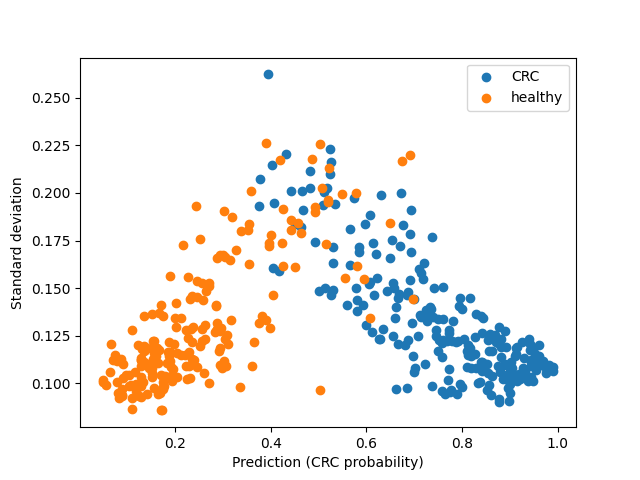
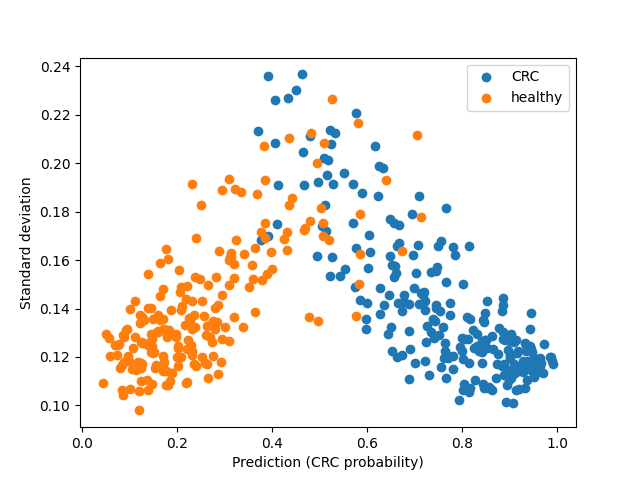
model comparison

diff --git a/visualization.py b/visualization.py
@@ -147,6 +147,7 @@ def cm_plot(y_test, y_pred, data_name, group, file_name, test_or_val, clf_name, 
         if fal==False:
             plt.savefig(os.path.join(Config.PLOTS_DIR, data_name, "final_results", group, file_name,
                                      f"{clf_name}_best_estimator_{test_or_val}_cm.png"))
+        plt.close()
     else:
 
         if not os.path.exists(str(Config.PLOTS_DIR) + "/" + str(data_name) + "/" + group + "/" + str(file_name)):
@@ -163,7 +164,7 @@ def cm_plot(y_test, y_pred, data_name, group, file_name, test_or_val, clf_name, 
         disp.plot()
         plt.title(file_name)
         plt.savefig(os.path.join(Config.PLOTS_DIR, data_name, group, file_name, f"{clf_name}_best_estimator_{test_or_val}_cm.png"))
-        #plt.show()
+        plt.close()
 
 def grid_search_train_test_plot(train_scores, test_scores, data_name, group, file_name, clf_name):
     # plot the train and test scores
@@ -174,6 +175,7 @@ def grid_search_train_test_plot(train_scores, test_scores, data_name, group, fil
     plt.title('GridSearch CV Train vs. Test score')
     plt.legend()
     plt.savefig(os.path.join(Config.PLOTS_DIR, data_name, group, file_name, f"{clf_name}_grid_search_scores.png"))
+    plt.close()
 
 
 def create_scores_dataframe(grid_clf, param_name, num_results=15, negative=True, graph=True, display_all_params=True):
@@ -259,44 +261,67 @@ def prob_boxplot(y_true, probs, data_name, group, file_name, set_name, fal, fal_
     # Split the predicted probabilities into positive and negative groups based on the true labels
     crc = probs[:, -1]
     healthy = probs[:,0:1]
+    probs = pd.DataFrame(probs)
+
+    vals, names, xs = [], [], []
+    for i, col in enumerate(probs.columns):
+        vals.append(probs[col].values)
+        names.append(col)
+        xs.append(
+            np.random.normal(i + 1, 0.08, probs[col].values.shape[0]))  # adds jitter to the data points - can be adjusted
+
+    plt.boxplot(vals, labels=names)
+    palette = [ '#84cdfc' , '#fdb88e']
+    for x, val, c in zip(xs, vals, palette):
+        plt.scatter(x, val, alpha=0.2, color=c)
+    plt.xlabel("Class", fontweight='normal', fontsize=12)
+    plt.ylabel("Predicted POD", fontweight='normal', fontsize=12)
+    plt.axhline(y=0.5, color='#b9b9b9', linestyle='--', linewidth=1, label='Threshold Value')
+
+
+    """
     #crc = [probs[i, 1] for i in range(len(y_true)) if y_true[i]==1]
     #healthy = [probs[i, 1] for i in range(len(y_true)) if y_true[i] == 0]
     #t_statistic, p_value = stats.ttest_ind(crc, healthy)
     differences = np.array(crc) - np.array(healthy)
     t, p = stats.ttest_rel(crc, healthy)
     # Plot the results
-    fig, ax = plt.subplots(1, 2, figsize=(6, 6))
-    # Create boxplots for positive and negative groups
-    bp1 = ax[0].boxplot(crc, vert=False)
-    bp2 = ax[1].boxplot(healthy, vert=False)
 
-    # Scatterplot for positive group
-    x = np.random.normal(0, 0.05, size=len(crc))
-    ax[0].scatter(x + crc, [1] * len(crc), s=10, c='red')
 
-    # Scatterplot for negative group
-    x = np.random.normal(0, 0.05, size=len(healthy))
-    ax[1].scatter(x + healthy, [1] * len(healthy), s=10, c='blue')
+
+    # Plot the positive and negative groups as boxplots
+    fig, ax = plt.subplots(1, 2, figsize=(5, 7), sharey=True)
+
+    # Create violin plots for positive and negative groups
+    #ax[0].violinplot(crc, showmeans=True, showmedians=False, showextrema=True)
+    #ax[1].violinplot(healthy, showmeans=True, showmedians=False, showextrema=True)
+
+    bplot1 = ax.boxplot(crc, positions=[1], widths=0.6)
+    bplot2 = ax.boxplot(healthy, positions=[2], widths=0.6)
+
+    # Add labels and title
+    # Add labels and title
+    ax.set_xlabel('Class')
+    ax.set_ylabel('Predicted POD')
+    ax.set_title('Predicted POD for CRC vs. healthy group')
+    ax.set_xticklabels(['CRC', 'Healthy'])
+
+    # Set y-limits for both subplots
+    ax[0].set_ylim([0, 1])
+    ax[1].set_ylim([0, 1])
+    yticks = np.arange(0, 1.1, 0.2)
+    ax[0].set_yticks(yticks)
+    ax[1].set_yticks(yticks)
+    x_ticks = np.arange(0, 1.1, 1)
+    ax[0].set_xticks(x_ticks)
+    ax[1].set_xticks(x_ticks)
 
     # Add labels and title
     ax[0].set_title('Positive Group')
     ax[1].set_title('Negative Group')
     ax[0].set_xlabel('Probability')
     ax[1].set_xlabel('Probability')
-
-    plt.tight_layout()
     """
-    # Plot the positive and negative groups as boxplots
-    fig, ax = plt.subplots(figsize=(5, 5))
-    bplot1 = ax.boxplot(crc, positions=[1], widths=0.6)
-    bplot2 = ax.boxplot(healthy, positions=[2], widths=0.6)
-    ax.set_ylim(0, 1)
-    ax.set_yticks([0, 0.2, 0.4, 0.6, 0.8, 1.0])
-    #Overlay scatter plots on the boxplots
-    ax.scatter(x=[0] * len(crc), y=crc, marker='.', color='orange', alpha=0.5)
-    ax.scatter(x=[1] * len(healthy), y=healthy, marker='.', color='blue', alpha=0.5)"""
-    #ax.set_title('CRC vs. healthy predicted PODs')
-
     if fal==True:
         plt.savefig(os.path.join(Config.PLOTS_DIR, data_name, "final_results", group, file_name,
                                  f"RF_{set_name}_fal_{fal_type}_boxplots.png"))

diff --git a/fal_classification.py b/fal_classification.py
@@ -23,6 +23,7 @@ from utils import Config
 import matplotlib
 #matplotlib.use('Agg')
 from matplotlib import pyplot as plt
+np.random.seed(43)
 
 from visualization import plot_conf_int, cm_plot, prob_boxplot
 
@@ -117,6 +118,11 @@ def load_preprocessed_data(data_name=FUDAN, filepath=fudan_filepath, group='old'
     # common_cols_v = set(X_val.columns).intersection(X_train.columns)
     # X_val = X_val[common_cols_v]
     # X_test = X_test[common_cols_t]
+    scaler = MinMaxScaler()
+    scaler.fit(X_train)
+    X_train = scaler.transform(X_train)
+    X_test = scaler.transform(X_test)
+    X_val = scaler.transform(X_val)
 
     print("number of features: ", X_train.shape[1])
     print("number of samples in training set: ", len(X_train))
@@ -377,19 +383,19 @@ def get_results(data_name, filepath, group, select_features, clf_name, fal, fal_
                             'Feature Abundance Limits': [fal_type]}
             else:
                 results = perform_classification(X_train, X_test, X_val, y_train, y_test, y_val, params,
-                                                 group=group, file_name="selected_features", clf_name=clf_name, fal=True, fal_type = fal_type)
+                                                 group=group, file_name="all_features", clf_name=clf_name, fal=True, fal_type = fal_type)
                 settings = {'classifier': [clf_name], 'samples': [group], 'features': ['all'],
                             'Feature Abundance Limits': [fal_type]}
 
         if fal == False:
             if clf_name == "RF":
                 results = perform_rf_classification(X_train, X_test, X_val, y_train, y_test, y_val, params,
-                                                    group=group, file_name="selected_features", fal=False, fal_type=None)
+                                                    group=group, file_name="all_features", fal=False, fal_type=None)
                 settings = {'classifier': [clf_name], 'samples': [group], 'features': ['all'],
                             'Feature Abundance Limits': ['no transformation']}
             else:
                 results = perform_classification(X_train, X_test, X_val, y_train, y_test, y_val, params,
-                                                 group=group, file_name="selected_features", clf_name=clf_name, fal=False, fal_type = None)
+                                                 group=group, file_name="all_features", clf_name=clf_name, fal=False, fal_type = None)
                 settings = {'classifier': [clf_name], 'samples': [group], 'features': ['all'],
                             'Feature Abundance Limits': ['no transformation']}
 
@@ -574,7 +580,7 @@ def xgb_results(data_name=FUDAN, fudan_filepath=fudan_filepath):
     xgb_res.to_csv(os.path.join(Config.LOG_DIR, FUDAN, 'final_results/xgb_final_results.csv'))
     return xgb_res
 
-rf_res = rf_results()
+#rf_res = rf_results()
 svm_res = svm_results()
 xgb_res = xgb_results()
 knn_res = knn_results()
